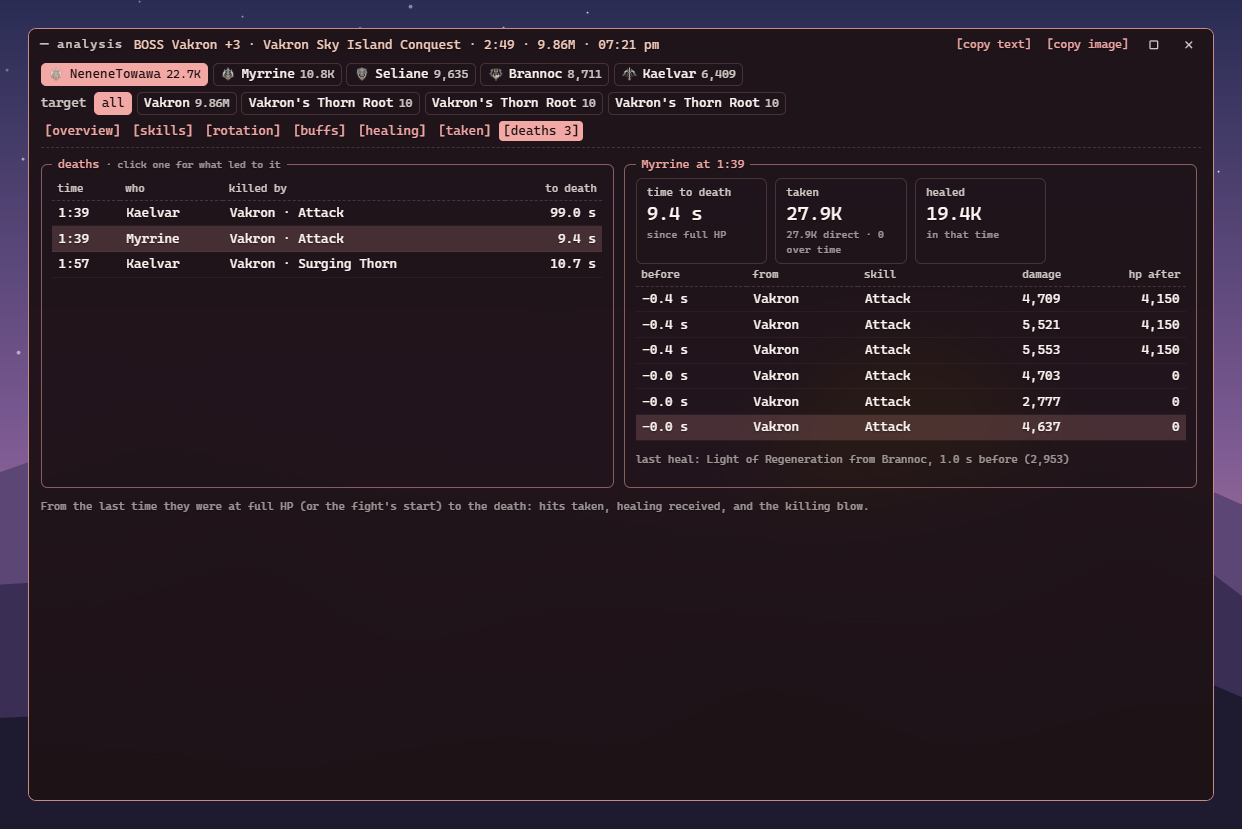
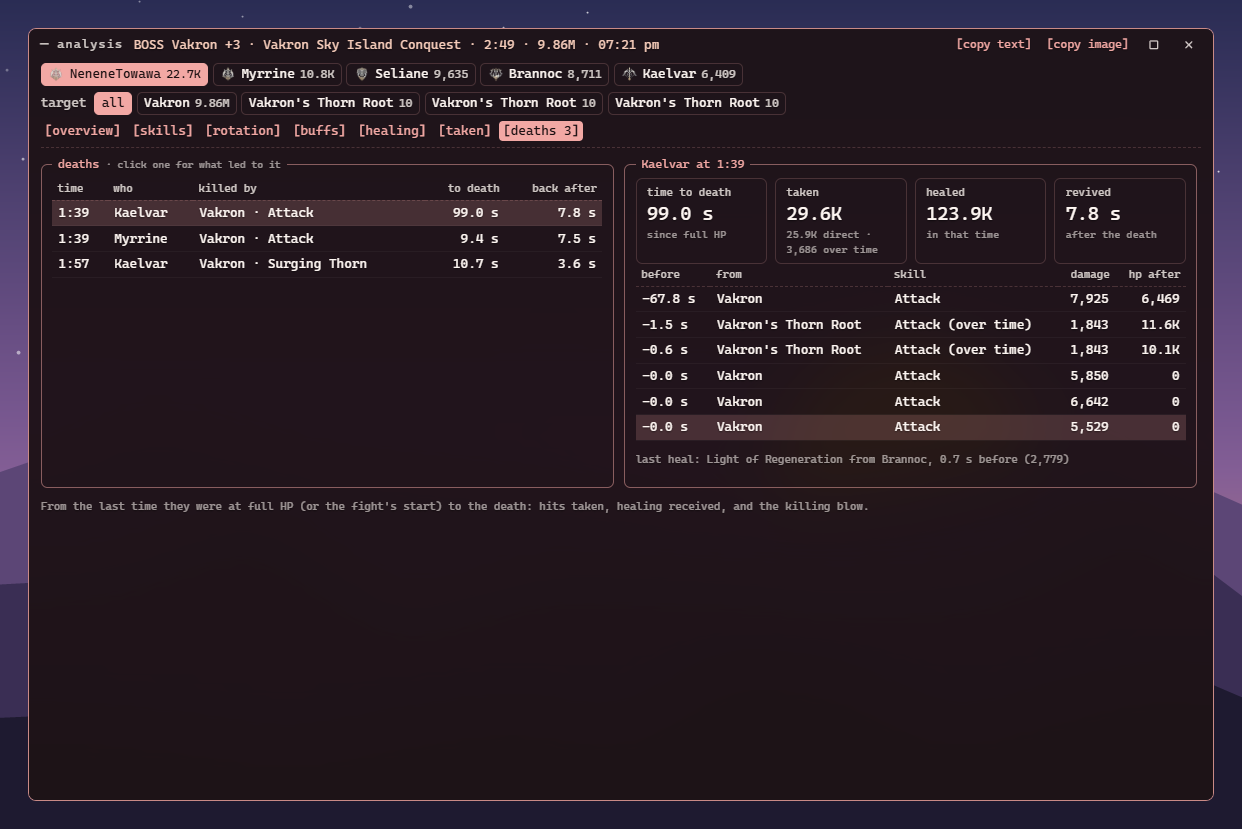
Version 0.8.0: release notes and new README screenshots
New screenshots of what changed: the meter in a boss fight (status light, your
best on the boss line), the side windows (target frame cast bar, boss casts,
world timers), the history (stage splits, best tags), settings (boss casts,
v0.8.0) and the deaths tab (back after). Other players' names are made up, as
before.

diff --git a/docs/releases/v0.8.0.md b/docs/releases/v0.8.0.md
@@ -1,0 +1,50 @@
+Boss casts, dungeon stage splits and personal bests, a target frame cast bar, your Odyle
+energy and tickets, and every window remembering where you put it and taking your
+background.
+
+### New
+
+- **Boss casts window** (settings → boss casts): what the boss cast this fight, newest
+  first (✕ when it was stopped), and when you fight it again, what it cast next last time
+  with a countdown. Its routine skills (cast 8 or more times a fight) hide behind
+  **[frequent]**.
+- **Cast bar in the target frame**: what your target is casting and the time left.
+- **Dungeon stage splits**: each run in the history shows how long each stage took, with a
+  ★ on your fastest stages and clear of that dungeon and mode.
+- **Personal bests per boss**: your best DPS and fastest kill on the meter's boss line
+  during the fight (green while you're beating it), and ★ tags on the fights that set
+  them.
+- **Revivals**: the deaths tab shows how long until each player was back.
+- **Your long cooldowns from the start** in the party cooldowns window, ready until used
+  (from the game's list of your skills).
+- **World timers**: your Odyle energy (basic and charged), your content tickets (double-click
+  one to name it; the game doesn't), and who holds the Abyss artifacts (when you open the
+  Abyss map or enter the Abyss; not tested in game yet).
+- **Force DPS**: in a Force (20-player raid group), its members count like your party
+  (not tested in game yet).
+- **Clear the history**: [clear] at the bottom of the history window deletes every fight,
+  dungeon run, PvP session and personal best (it asks first).
+- **Remembered positions**: every window (the meter, settings, analysis and the side
+  windows) opens where you last left it, at the same size.
+
+### Changes
+
+- Every window takes the background you choose (frosted, tinted or clear); the settings and
+  analysis windows stay tinted enough to read.
+- Custom colours are saved and shown in every window as you pick them, the meter's bars
+  included. A dark colour is used as it is, with light text on it.
+- The status light is bigger and has its own colour per state: green capturing, amber
+  waiting for the game, red in combat (both pulsing), peach in a replay.
+- The party view labels combat power and gear score (cp, gs).
+- Party notices (joins, leaves, alerts) show one at a time on the meter's top border instead
+  of pushing the rows down.
+- A middle boss's death ends the fight even if it died out of view (the game says).
+
+### Fixes
+
+- Picking a colour between red and magenta no longer breaks the theme or closes the picker.
+- A picked colour is no longer lost when you close the picker by clicking another window.
+- With three notices showing, the fifth player is visible again.
+- After a party breaks up at the end of a dungeon, its last fight still shows everyone.
+- A revived player no longer counts as dead.
+- The meter sizes itself to fit five rows again.

diff --git a/README.md b/README.md
@@ -4,17 +4,17 @@ A frosted-glass DPS meter for **Aion 2** on Windows. It reads the game's network
 passively through Npcap, so it never touches the game or its memory. No admin rights, no
 auto-updates, and it never goes online.
 
-![The meter in a boss fight: the boss's HP, deaths and five players](docs/screenshots/overlay.png)
+![The meter in a boss fight: the boss's HP, your best against it, deaths and five players](docs/screenshots/overlay.png)
 
 | Skill breakdown | Minimal mode, class-coloured bars |
 | --- | --- |
 | ![A player's skills](docs/screenshots/skills.png) | ![Minimal mode](docs/screenshots/minimal.png) |
 
-![A boss fight with the target frame, cooldowns, party cooldowns and world timers](docs/screenshots/windows.png)
+![A boss fight with the target frame's cast bar, boss casts, party cooldowns and world timers](docs/screenshots/windows.png)
 
 | Fight history | Settings |
 | --- | --- |
-| ![A dungeon run in the fight history window](docs/screenshots/history.png) | ![Settings beside the meter](docs/screenshots/settings.png) |
+| ![Dungeon runs with stage splits and personal bests in the fight history window](docs/screenshots/history.png) | ![Settings beside the meter](docs/screenshots/settings.png) |
 
 ![Fight analysis: overview](docs/screenshots/analysis-overview.png)
 
